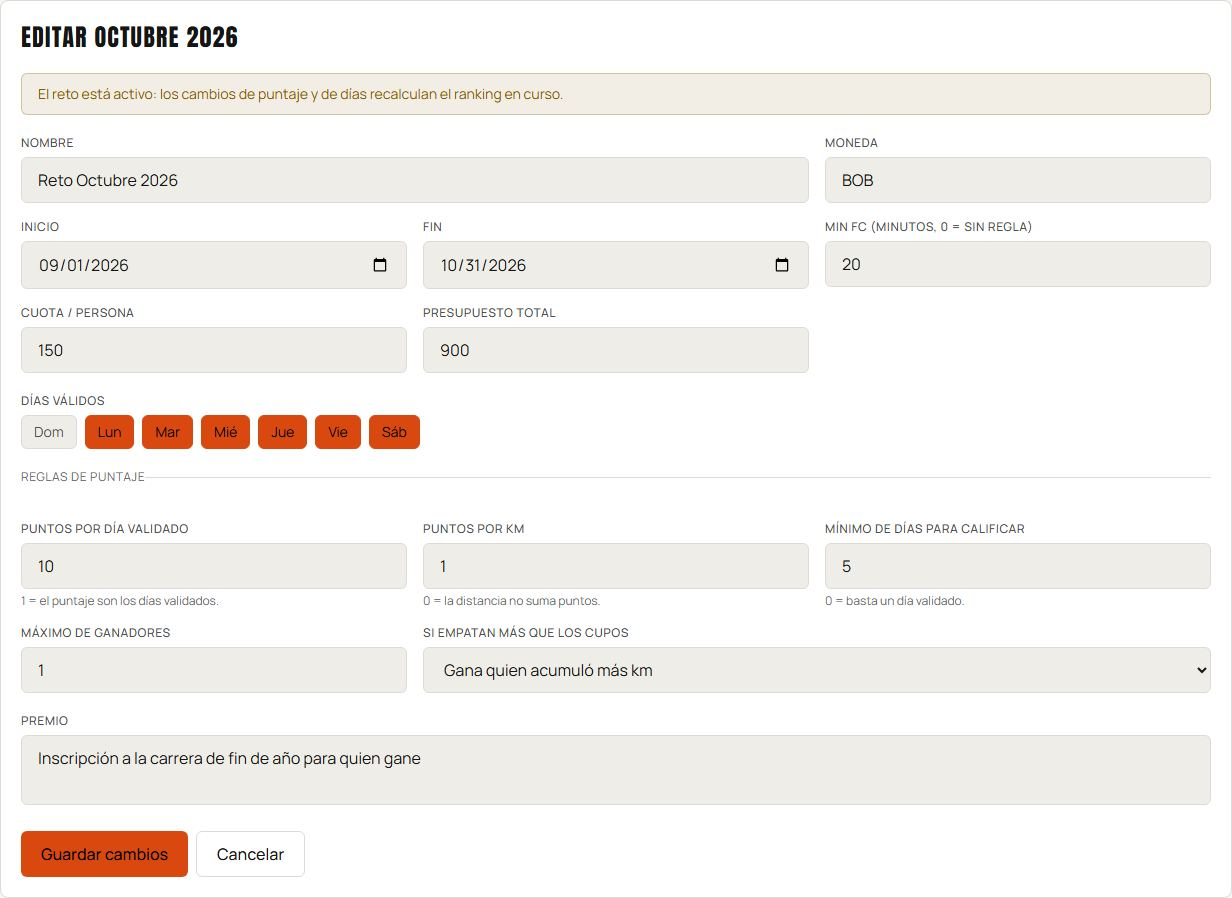
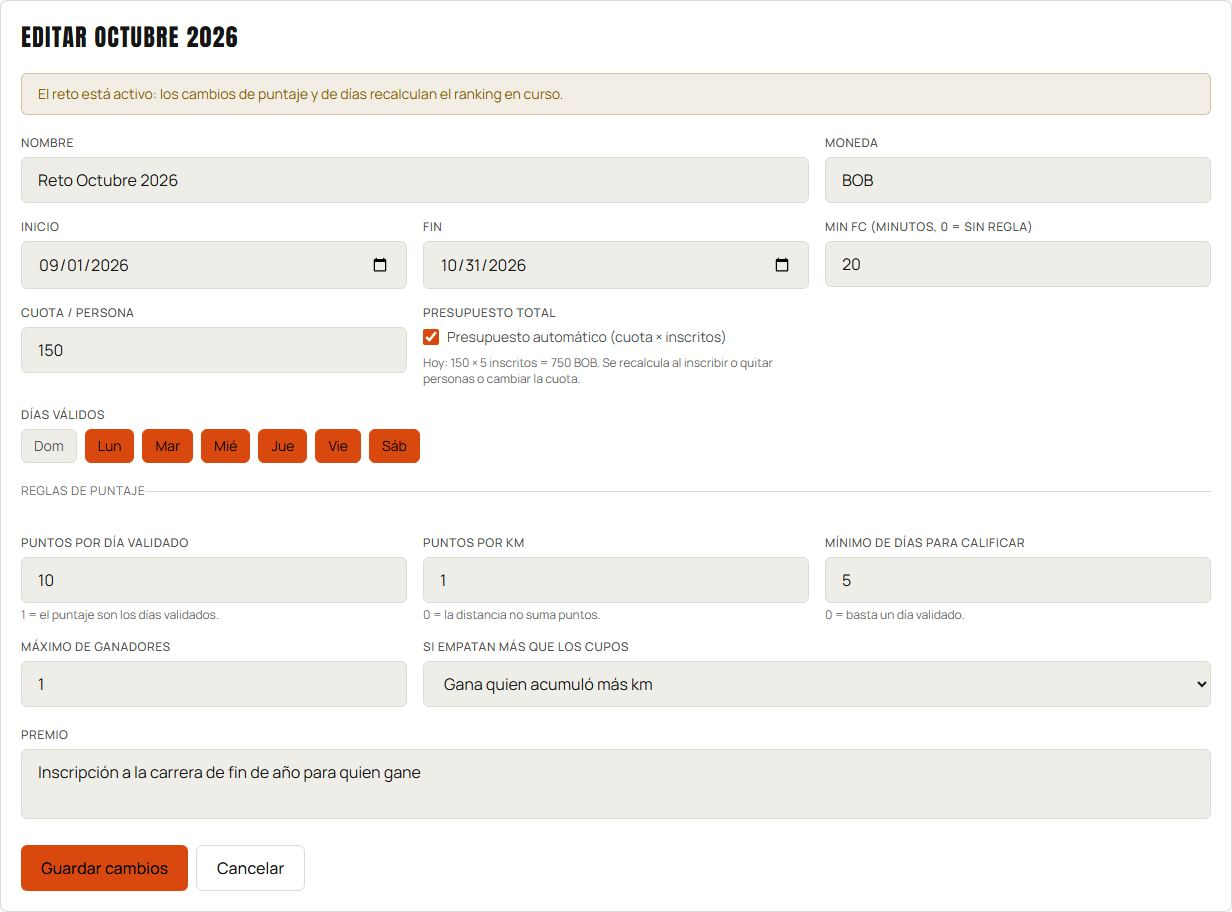
docs: record the business decisions and update guide and runbook
challenge-rules.md records the four finance decisions (collected pot,
budget from the fees, no payments after closing, unpaid participants can
win). The guide's steps 2.1, 2.3, 3.3, 3.4, 6.1 and 6.3 and its captures
follow them, the capture suite uses an automatic budget and records the
closed demo's payments before awarding, and the runbook flags the first
migration since 1.0 (backup required; rolling back to 1.3.0 needs the
restore).

diff --git a/docs/guia-plataforma.html b/docs/guia-plataforma.html
@@ -265,13 +265,15 @@
     <p class="lede">Todo lo que hace la plataforma, en el orden en que ocurre durante un mes de reto: poner el sistema en marcha, configurar el reto, inscribir y cobrar, registrar y validar actividades, cerrar con ranking y premio, cargar historial y operar. Marca cada paso cuando lo completes; tu avance queda guardado en este navegador.</p>
     <div class="facts">
       <span><b>Para</b> administradores, participantes y quien opera el servidor</span>
-      <span class="verified">Verificado el 2 oct 2026: batería 11 de 11 · 102 de 102 casos aprobados con 353 pruebas</span>
+      <span class="verified">Verificado el 2 oct 2026: batería 11 de 11 · 104 de 104 casos aprobados con 368 pruebas</span>
       <span><b>Capturas</b> de la web real en modo claro, generadas por Playwright con datos de demostración</span>
       <span><b>Moneda de ejemplo</b> BOB · <b>zona</b> America/La_Paz</span>
     </div>
     <details class="news">
       <summary>Qué cambió en esta actualización</summary>
       <ul>
+        <li>El premio se reparte con lo recaudado y el presupuesto se calcula solo con las cuotas (cuota × inscritos), con ajuste manual opcional (pasos 2.1, 3.4 y 6.1).</li>
+        <li>Un reto cerrado ya no acepta pagos: el pago tardío va al reto siguiente (3.3 y 6.3).</li>
         <li>Desde la web ya se puede editar un reto (2.3), registrar un pago parcial (3.3) y retirar una actividad pendiente (4.5): nada de eso requiere la API.</li>
         <li>Un reto cerrado es definitivo: no se edita ni vuelve a borrador (6.3).</li>
         <li>El encabezado entra completo también en el celular: el nombre del reto ya no se corta y las secciones van en una fila propia que se desplaza.</li>
@@ -404,7 +406,7 @@
             'Pulsa <span class="ui">+ Nuevo reto</span>.',
             'Completa nombre, moneda, mes y año. El período va del primer al último día del mes.',
             'Fija <span class="ui">Min FC (minutos)</span>: los minutos de registro de frecuencia cardíaca exigidos por actividad. Con 0 la regla no aplica.',
-            'Indica la cuota por persona, el presupuesto total del premio y la descripción del premio.',
+            'Indica la cuota por persona y la descripción del premio. El presupuesto queda en <span class="ui">Presupuesto automático (cuota × inscritos)</span>; desmárcalo solo si quieres fijar otro monto, por ejemplo con un aporte extra.',
             'Marca los <span class="ui">Días válidos</span> (por defecto de lunes a sábado).',
             'Revisa el bloque <span class="ui">Reglas de puntaje</span>: puntos por día validado, puntos por km, mínimo de días para calificar, máximo de ganadores y qué hacer si empatan más que los cupos.',
             'Pulsa <span class="ui">Crear reto</span>.'
@@ -425,8 +427,8 @@
           why: 'Para corregir fechas, días válidos, cuota, premio o puntaje después de crear el reto.',
           actions: ['En <span class="ui">Retos</span>, pulsa <span class="ui">Editar</span> en un reto en borrador o activo.', 'El formulario viene con los valores actuales; el mes y el año quedan fijos. Cambia lo necesario y pulsa <span class="ui">Guardar cambios</span>.'],
           expect: 'El reto guarda solo lo que cambiaste y el ranking se recalcula al instante. Si el fin queda antes del inicio, el formulario muestra el error y no cambia nada.',
-          note: 'Un reto cerrado no se edita: su resultado es definitivo. Si el reto está activo, el formulario avisa que los cambios de puntaje y de días recalculan el ranking en curso.',
-          refs: ['TC-CHAL-05', 'TC-CHAL-13']
+          note: 'Un reto cerrado no se edita: su resultado es definitivo. Si el reto está activo, el formulario avisa que los cambios de puntaje y de días recalculan el ranking en curso. Para volver a calcular el presupuesto con las cuotas, marca otra vez <span class="ui">Presupuesto automático</span>.',
+          refs: ['TC-CHAL-05', 'TC-CHAL-13', 'TC-FIN-06']
         },
         {
           id: '2.4', role: 'participante', title: 'Trabajar con varios retos activos a la vez', route: '/dashboard',
@@ -461,15 +463,15 @@
           why: 'El sistema concilia la cuota con lo cobrado.',
           actions: ['Pulsa <span class="ui">Marcar pagado</span>: aparece <span class="ui">Monto recibido</span> con la cuota completa.', 'Si pagó una parte, escribe el monto; luego pulsa <span class="ui">Guardar pago</span>.', 'Pulsa <span class="ui">Marcar impago</span> para revertirlo; se borran el monto y la fecha.'],
           expect: 'Con la cuota completa el chip pasa a "Pagado"; con menos, a "Parcial" con lo que falta, y el resumen financiero se actualiza al instante. Un monto en cero no se guarda.',
-          note: 'Solo cuenta como recaudado lo que el administrador registra; un comprobante subido no suma por sí solo.',
-          refs: ['TC-PART-04', 'TC-FIN-01']
+          note: 'Solo cuenta como recaudado lo que el administrador registra; un comprobante subido no suma por sí solo. Con el reto cerrado ya no se registran pagos: un pago tardío va al reto siguiente.',
+          refs: ['TC-PART-04', 'TC-FIN-01', 'TC-FIN-07']
         },
         {
           id: '3.4', role: 'admin', title: 'Leer el resumen financiero', route: '/dashboard/admin/participants',
-          why: 'Saber de un vistazo si el presupuesto del premio está cubierto.',
+          why: 'Saber de un vistazo cuánto se cobró frente a la meta del reto.',
           actions: ['Revisa las cuatro tarjetas: <span class="ui">Esperado</span> (cuota por inscritos), <span class="ui">Recaudado</span>, <span class="ui">Pendiente</span> y <span class="ui">Presupuesto</span>.'],
-          expect: 'Las tarjetas se actualizan al marcar o desmarcar un pago. Presupuesto dice "Cubierto" o cuánto falta.',
-          note: 'Solo cuenta como recaudado lo que el administrador marcó como pagado; un comprobante subido no suma por sí solo.',
+          expect: 'Las tarjetas se actualizan al marcar o desmarcar un pago. Presupuesto dice "Cubierto" o cuánto falta, y si es automático (cuota × inscritos, se recalcula solo) o ajustado a mano.',
+          note: 'Solo cuenta como recaudado lo que el administrador marcó como pagado; un comprobante subido no suma por sí solo. Lo recaudado es lo que se reparte como premio; el presupuesto es la meta.',
           refs: ['TC-FIN-02', 'TC-FIN-03', 'TC-FIN-05']
         }
       ]
@@ -560,7 +562,8 @@
           id: '6.1', role: 'participante', title: 'Leer el ranking', route: '/dashboard/results',
           why: 'Es el marcador del reto, visible para todos.',
           actions: ['Revisa los días válidos del período y el tope actual, en días o en puntos según las reglas del reto.', 'Si el reto tiene reglas propias, una línea explica el puntaje y aparece la columna <span class="ui">Puntos</span>.', 'Quien no llega al mínimo de días aparece marcado "no califica".'],
-          expect: 'Se ordena por puntaje y, a igual puntaje, por kilómetros. Debajo del título se ve el premio por ganador, marcado "proyectado" mientras el reto sigue activo.',
+          expect: 'Se ordena por puntaje y, a igual puntaje, por kilómetros. Debajo del título se ve el premio por ganador: se reparte lo recaudado (no el presupuesto), marcado "proyectado" mientras el reto sigue activo. Si aún no hay pagos, lo dice.',
+          note: 'Quien no pagó la cuota puede ganar igual: el pago no cambia el ranking ni los ganadores.',
           refs: ['TC-RES-01', 'TC-SCORE-01', 'TC-SCORE-02', 'TC-SCORE-05', 'TC-SCORE-07', 'TC-FIN-04', 'TC-SCORE-06']
         },
         {
@@ -575,8 +578,8 @@
           why: 'Al cerrar, el ranking pasa a ser definitivo.',
           actions: ['Pulsa <span class="ui">Cerrar reto</span> y confirma.'],
           expect: 'El reto pasa a Cerrado, deja de admitir actividades, inscripciones y bajas, y el resultado queda calculado con sus ganadores. No se puede volver a activar.',
-          note: 'Un reto cerrado es definitivo: no se puede editar ni volver a borrador, pero sí registrar su premiación (paso 6.4). Cualquiera puede consultar su resultado final en el Ranking (paso 6.5).',
-          refs: ['TC-CHAL-11', 'TC-CHAL-13', 'TC-PART-06']
+          note: 'Un reto cerrado es definitivo: no se puede editar, volver a borrador ni registrar pagos (el premio queda fijo), pero sí registrar su premiación (paso 6.4). Cualquiera puede consultar su resultado final en el Ranking (paso 6.5).',
+          refs: ['TC-CHAL-11', 'TC-CHAL-13', 'TC-PART-06', 'TC-FIN-07']
         },
         {
           id: '6.4', role: 'admin', title: 'Registrar la premiación', route: '/dashboard/results',
@@ -646,7 +649,7 @@
         {
           id: '8.2', role: 'tecnico', title: 'Correr la batería completa',
           why: 'Antes de cada release, un solo comando valida toda la plataforma.',
-          cmd: 'node scripts/run-tests.mjs              # 11 pasos\nnode scripts/run-tests.mjs --quick      # sin base de datos\nnode scripts/validate-test-cases.mjs    # valida los 102 casos del catálogo',
+          cmd: 'node scripts/run-tests.mjs              # 11 pasos\nnode scripts/run-tests.mjs --quick      # sin base de datos\nnode scripts/validate-test-cases.mjs    # valida los 104 casos del catálogo',
           expect: 'Lint, unitarias, build, migraciones, e2e de API, tipos, unitarias y build de la web, sesiones paralelas y recorridos de UI en verde. El validador cruza cada caso de <code>docs/qa/</code> con sus pruebas y regenera el catálogo y el reporte. Solo necesita Postgres.',
           refs: ['testing.md', 'qa/validation-report.md']
         },
@@ -654,7 +657,7 @@
           id: '8.3', role: 'tecnico', title: 'Ver los recorridos de UI en el navegador',
           why: 'Playwright reproduce los recorridos de este manual sobre la web real.',
           cmd: 'cd e2e && npm install && npx playwright install chromium\nnpm test          # sin ventana\nnpm run test:ui   # paso a paso\nnpx playwright test -c playwright.guide.config.ts   # regenera las capturas de este manual',
-          expect: '43 recorridos en verde (más la preparación de sesiones). La suite de capturas deja las imágenes en <code>docs/guia-capturas/</code>.',
+          expect: '44 recorridos en verde (más la preparación de sesiones). La suite de capturas deja las imágenes en <code>docs/guia-capturas/</code>.',
           refs: ['e2e-playwright.md']
         },
         {
@@ -669,7 +672,7 @@
           id: '8.5', role: 'tecnico', title: 'Validar el catálogo de casos de prueba',
           why: 'Cada caso del catálogo está enlazado a las pruebas que lo demuestran; el validador dice cuáles pasan hoy.',
           cmd: 'cd backend && npx prisma migrate reset --force   # datos limpios del seed\ncd .. && node scripts/validate-test-cases.mjs\nnode scripts/validate-test-cases.mjs --only=ui        # una sola suite\nnode scripts/validate-test-cases.mjs --reuse          # regenera los documentos sin volver a correr',
-          expect: 'Los 102 casos aprobados y ninguna prueba sin caso. Se regeneran <code>docs/qa/test-cases.md</code>, <code>test-cases.csv</code> y <code>validation-report.md</code>; el comando falla si un caso falla o si una prueba cambió de nombre.',
+          expect: 'Los 104 casos aprobados y ninguna prueba sin caso. Se regeneran <code>docs/qa/test-cases.md</code>, <code>test-cases.csv</code> y <code>validation-report.md</code>; el comando falla si un caso falla o si una prueba cambió de nombre.',
           note: 'Uno de los casos (TC-SEC-04, el seed en producción) es una verificación manual registrada; los demás se validan con pruebas automatizadas.',
           refs: ['qa/validation-report.md', 'qa/catalog.mjs']
         },
@@ -700,6 +703,7 @@
     ['Inscribir y quitar participantes', '3.1', 'auto'],
     ['Marcar pago, impago y pago parcial con el monto recibido', '3.3', 'auto'],
     ['Resumen financiero y cobertura del presupuesto', '3.4', 'auto'],
+    ['Presupuesto automático (cuota × inscritos) o ajustado a mano', '2.1', 'auto'],
     ['Panel personal con cuenta regresiva y posición', '4.1', 'auto'],
     ['Comprobante de pago del participante', '4.2', 'auto'],
     ['Registro de actividad con fotos', '4.3', 'auto'],
@@ -713,10 +717,10 @@
     ['Rechazar con motivo', '5.3', 'auto'],
     ['Ranking por puntaje, calificación y columna de puntos', '6.1', 'auto'],
     ['Tope del ranking en la unidad del reto (puntos o días)', '6.1', 'auto'],
-    ['Premio por ganador proyectado y final', '6.1', 'auto'],
+    ['Premio por ganador repartido con lo recaudado', '6.1', 'auto'],
     ['Empates y reglas de desempate', '6.2', 'auto'],
     ['Cerrar reto', '6.3', 'auto'],
-    ['Reto cerrado definitivo (sin edición ni reapertura)', '6.3', 'auto'],
+    ['Reto cerrado definitivo (sin edición, reapertura ni pagos)', '6.3', 'auto'],
     ['Ranking de retos cerrados, con dirección para compartir', '6.5', 'auto'],
     ['Premiación manual que prevalece', '6.4', 'auto'],
     ['Premiación con ganadores sugeridos por las reglas', '6.4', 'auto'],

diff --git a/e2e/guide/capture.spec.ts b/e2e/guide/capture.spec.ts
@@ -10,7 +10,7 @@ import { pngFile } from '../fixtures/ui';
  * Capturas de la guía de uso y evidencia visual de los casos de UI del catálogo.
  *
  * Datos de demostración: "Reto Octubre 2026" (período 1 sep – 31 oct 2026, lunes a sábado,
- * 20 min de FC, cuota 150 BOB, presupuesto 900 BOB, 10 puntos por día + 1 por km, mínimo 5
+ * 20 min de FC, cuota 150 BOB, presupuesto automático (5 × 150), 10 puntos por día + 1 por km, mínimo 5
  * días, 1 ganador, desempate por km) con los cinco participantes del seed. Convive con el
  * reto de mayo del seed, así que el selector de reto aparece.
  */
@@ -88,7 +88,7 @@ test.beforeAll(async () => {
     validDays: [1, 2, 3, 4, 5, 6],
     minHeartRateMinutes: 20,
     feePerParticipant: 150,
-    budgetTotal: 900,
+    budgetTotal: null,
     currency: 'BOB',
     prizeDescription: 'Inscripción a la carrera de fin de año para quien gane',
     pointsPerValidatedDay: 10,
@@ -247,7 +247,8 @@ test.describe('Participante', () => {
     await expect(page.getByLabel('Regla de puntaje')).toContainText('10 por día validado');
     await expect(page.locator('table thead')).toContainText('PUNTOS', { ignoreCase: true });
     await expect(page.locator('table')).toContainText('no califica');
-    await expect(page.getByLabel('Premio por ganador')).toContainText('900 BOB');
+    // El pote es lo recaudado (150 + 150 + 75), no el presupuesto
+    await expect(page.getByLabel('Premio por ganador')).toContainText('375 BOB por ganador');
     await expect(page.locator('main')).toContainText('top actual: 96 puntos');
     await shot(page, '16-ranking.jpg');
   });
@@ -283,7 +284,7 @@ async function closedDemoChallenge(): Promise<string> {
       body: {
         name: CLOSED_NAME, month: 8, year: YEAR,
         startDate: `${YEAR}-08-01T00:00:00.000Z`, endDate: `${YEAR}-08-31T23:59:59.000Z`,
-        validDays: [1, 2, 3, 4, 5, 6], minHeartRateMinutes: 20, feePerParticipant: 150, budgetTotal: 600,
+        validDays: [1, 2, 3, 4, 5, 6], minHeartRateMinutes: 20, feePerParticipant: 150,
         currency: 'BOB', prizeDescription: 'Zapatillas de running para quien gane',
       },
     });
@@ -306,6 +307,10 @@ async function closedDemoChallenge(): Promise<string> {
   const participants = await api<{ userId: string; user: { email: string } }[]>('GET', `/challenges/${id}/participants`, { token: admin });
   const carla = participants.body.find((p) => p.user.email === 'carla@reto.local');
   if (!carla) throw new Error('Carla no quedó inscrita en el reto cerrado');
+  // Los tres pagaron su cuota antes del cierre: el pote del premio es 450
+  for (const p of participants.body) {
+    await api('PATCH', `/challenges/${id}/participants/${p.userId}/payment`, { token: admin, body: { paid: true } });
+  }
   await api('POST', `/challenges/${id}/awards`, {
     token: admin,
     body: { userIds: [carla.userId], notes: 'Zapatillas entregadas en la reunión de septiembre' },

diff --git a/openspec/changes/pot-from-collected/tasks.md b/openspec/changes/pot-from-collected/tasks.md
@@ -1,17 +1,17 @@
 ## 1. Data and backend
 
-- [ ] 1.1 Prisma migration: `Challenge.budgetTotal` nullable without default, with the data rule (0 or equal to fee × participants → NULL); verify `prisma migrate dev` applies on a seeded database and the seed's May challenge ends up automatic
-- [ ] 1.2 Effective-budget helper (`budgetTotal ?? fee × participants`) used by the finance summary, which also returns `budgetMode`; DTOs accept an optional budget on create and `null` on update; verify with `finance.service.spec.ts` and `challenges.service.spec.ts` (automatic follows enrollment and fee, manual stays, back to automatic)
-- [ ] 1.3 Collected-total function shared by the finance summary and `computePayout(collected, winnersCount, fee)` with `monetary = fee > 0`; `ResultsService` uses it; verify with finance and results unit tests (collected pot, nothing collected on a paid challenge, free challenge, budget ignored, unpaid top scorer still wins)
-- [ ] 1.4 Reject payment changes and payment-proof uploads on `COMPLETED` challenges; verify with unit tests and `platform-rules.e2e-spec.ts` cases (mark paid, mark unpaid and upload proof after closing → 400, pot unchanged)
-- [ ] 1.5 Update the API e2e expectations (`challenge-finance.e2e-spec.ts`, `challenge-scoring.e2e-spec.ts`, `platform-rules.e2e-spec.ts`) and the parallel-session finance checks; verify `npm run test:e2e` and the session script pass
+- [x] 1.1 Prisma migration: `Challenge.budgetTotal` nullable without default, with the data rule (0 or equal to fee × participants → NULL); verify `prisma migrate dev` applies on a seeded database and the seed's May challenge ends up automatic
+- [x] 1.2 Effective-budget helper (`budgetTotal ?? fee × participants`) used by the finance summary, which also returns `budgetMode`; DTOs accept an optional budget on create and `null` on update; verify with `finance.service.spec.ts` and `challenges.service.spec.ts` (automatic follows enrollment and fee, manual stays, back to automatic)
+- [x] 1.3 Collected-total function shared by the finance summary and `computePayout(collected, winnersCount, fee)` with `monetary = fee > 0`; `ResultsService` uses it; verify with finance and results unit tests (collected pot, nothing collected on a paid challenge, free challenge, budget ignored, unpaid top scorer still wins)
+- [x] 1.4 Reject payment changes and payment-proof uploads on `COMPLETED` challenges; verify with unit tests and `platform-rules.e2e-spec.ts` cases (mark paid, mark unpaid and upload proof after closing → 400, pot unchanged)
+- [x] 1.5 Update the API e2e expectations (`challenge-finance.e2e-spec.ts`, `challenge-scoring.e2e-spec.ts`, `platform-rules.e2e-spec.ts`) and the parallel-session finance checks; verify `npm run test:e2e` and the session script pass
 
 ## 2. Web
 
-- [ ] 2.1 Challenge form: "Presupuesto automático (cuota × inscritos)" checked by default, manual amount when unchecked, re-checking in edit sends `null`; verify with Playwright (manual 800, then back to automatic)
-- [ ] 2.2 Finance card shows the effective budget with "automático" or "ajustado"; ranking prize line shows the collected pot (projected while active), "aún no hay pagos registrados" for a paid challenge with nothing collected, "premio no monetario" only for free challenges; verify with the Playwright finance journey
+- [x] 2.1 Challenge form: "Presupuesto automático (cuota × inscritos)" checked by default, manual amount when unchecked, re-checking in edit sends `null`; verify with Playwright (manual 800, then back to automatic)
+- [x] 2.2 Finance card shows the effective budget with "automático" or "ajustado"; ranking prize line shows the collected pot (projected while active), "aún no hay pagos registrados" for a paid challenge with nothing collected, "premio no monetario" only for free challenges; verify with the Playwright finance journey
 
 ## 3. QA and documentation
 
-- [ ] 3.1 Update the QA catalog (TC-FIN-02, TC-FIN-04, TC-FIN-05, TC-RES-04 and new cases for the automatic budget and for payments closing with the challenge) and record the four business decisions in `docs/challenge-rules.md`; verify `node scripts/validate-test-cases.mjs` approves every case with no orphan tests
-- [ ] 3.2 Regenerate the guide captures; update guide steps 2.1, 2.3, 3.3, 3.4, 6.1 and 6.3, the runbook (first migration since 1.0: backup), CHANGELOG and `docs/testing.md`; republish guide and runbook; run `node scripts/run-tests.mjs` and verify all steps pass
+- [x] 3.1 Update the QA catalog (TC-FIN-02, TC-FIN-04, TC-FIN-05, TC-RES-04 and new cases for the automatic budget and for payments closing with the challenge) and record the four business decisions in `docs/challenge-rules.md`; verify `node scripts/validate-test-cases.mjs` approves every case with no orphan tests
+- [x] 3.2 Regenerate the guide captures; update guide steps 2.1, 2.3, 3.3, 3.4, 6.1 and 6.3, the runbook (first migration since 1.0: backup), CHANGELOG and `docs/testing.md`; republish guide and runbook; run `node scripts/run-tests.mjs` and verify all steps pass

diff --git a/docs/challenge-rules.md b/docs/challenge-rules.md
@@ -119,7 +119,7 @@ describen la regla aplicada.
 > resultados se computan en cada lectura, no se congelan al cerrar el reto.
 
 **Fuera de alcance (requerirían su propio cambio):** bonus por rachas, pesos por
-tipo de ejercicio, cuotas semanales, elegibilidad por pago.
+tipo de ejercicio, cuotas semanales (la elegibilidad por pago se descartó: ver decisión 4).
 
 **Gap #4 — Cuota/presupuesto conciliados con los pagos. RESUELTO** (cambio
 OpenSpec `budget-payout-reconciliation`, spec `challenge-finance`).
@@ -129,16 +129,27 @@ OpenSpec `budget-payout-reconciliation`, spec `challenge-finance`).
   Con cuota 0 todos cuentan como pagados.
 - **Resumen financiero** (`GET /challenges/:id/finance`, solo admin): esperado
   (cuota × inscritos), recaudado (suma de montos confirmados por el admin),
-  pendiente, cobertura del presupuesto (`budgetCovered`, `budgetDelta`) y la lista
+  pendiente, presupuesto efectivo con su modo (`budgetMode`: automático o
+  ajustado), cobertura del presupuesto (`budgetCovered`, `budgetDelta`) y la lista
   con el estado de cada participante. La página de participantes lo muestra en
   tarjetas.
-- **Payout** en `GET /challenges/:id/results`: el pote es el `budgetTotal` del reto
-  y se reparte entre los premiados manuales si existen, si no entre los ganadores
-  calculados (redondeo hacia abajo a 2 decimales). Presupuesto 0 = premio no
-  monetario. No altera el ranking ni los ganadores.
 - Marcar pagado sin monto registra la cuota; marcar impago limpia monto y fecha.
-- **Pendiente de negocio (no implementado):** excluir morosos del premio o usar
-  lo recaudado como pote. Ambas cosas requieren una decisión explícita.
+
+**Decisiones de negocio (2026-10-03, cambio OpenSpec `pot-from-collected`):**
+
+1. **El premio se reparte con lo recaudado.** El pote de `GET /challenges/:id/results`
+   es la suma de los pagos confirmados, no el presupuesto. Se reparte entre los
+   premiados manuales si existen, si no entre los ganadores calculados (redondeo
+   hacia abajo a 2 decimales). El premio es monetario cuando el reto cobra cuota; un
+   reto con cuota y sin pagos tiene pote 0. Mientras el reto está activo el monto se
+   muestra como proyectado.
+2. **El presupuesto sale de las cuotas.** Por defecto es cuota × inscritos y se
+   recalcula al inscribir o quitar personas o cambiar la cuota. El admin puede fijar
+   otro monto (por ejemplo, un aporte extra) y volver a automático. Es una meta: no
+   define el premio.
+3. **Un reto cerrado no acepta pagos ni comprobantes.** Un pago tardío se registra en
+   el reto siguiente. Así lo recaudado, y el premio, de un reto cerrado queda fijo.
+4. **Quien no pagó puede ganar.** El pago no afecta el ranking ni los ganadores.
 
 ## 4. Plantilla para comparar reglas de dos meses
 

diff --git a/docs/testing.md b/docs/testing.md
@@ -111,8 +111,8 @@ Las ramas `main` y `develop` están protegidas: sin CI en verde no se puede merg
 | Reglas de negocio del backend | Cubiertas por unitarias y e2e |
 | Contratos HTTP y RBAC | Cubiertos por e2e |
 | Recorrido funcional completo | Cubierto por `parallel-session-test.mjs` |
-| Interfaz web | Cubierta por Playwright (`e2e/`): 43 recorridos (incluidos el modo claro/oscuro, los retos cerrados, el encabezado en escritorio y móvil, y editar retos, retirar actividades y pagos parciales) y 18 pruebas de la suite de capturas, sobre navegador real |
-| Trazabilidad | Los 102 casos de `docs/qa/` están enlazados a 353 pruebas; ninguna prueba queda sin caso |
+| Interfaz web | Cubierta por Playwright (`e2e/`): 44 recorridos (incluidos el modo claro/oscuro, los retos cerrados, el encabezado en escritorio y móvil, editar retos, retirar actividades, pagos parciales y el presupuesto automático) y 18 pruebas de la suite de capturas, sobre navegador real |
+| Trazabilidad | Los 104 casos de `docs/qa/` están enlazados a 368 pruebas; ninguna prueba queda sin caso |
 | Componentes del frontend aislados | **Sin pruebas unitarias**: la UI se verifica de punta a punta, no por componente |
 | Subida de archivos | Cubierta de punta a punta contra el simulador local; **la subida real a Cloudinary** requiere credenciales y se verifica manualmente |
 | Lectura real de Google Sheets | **Sin cobertura automatizada**: e2e usa un cliente falso; el camino real requiere una cuenta de servicio |
@@ -124,6 +124,16 @@ Testing Library, y el corredor ya tiene dónde enchufarlas.
 
 Cada release se valida corriendo la batería completa en local antes de desplegar. Se anota
 aquí la versión, la fecha, el entorno y el resultado por suite.
+
+### 2026-10-03 · rama `feature/pot-from-collected` (pote recaudado y presupuesto automático)
+
+Base reiniciada con `npx prisma migrate reset --force` (incluye la migración nueva del
+presupuesto). **Batería:** 11 de 11 pasos en verde. **Catálogo:** 104 de 104 casos aprobados con
+368 pruebas y 0 fallidas: unitarias del backend 139, unitarias de la web 12, e2e de API 87,
+recorridos de UI 44 (más la preparación), capturas de la guía 18 (más la preparación) y sesiones
+paralelas 66. Casos nuevos: TC-FIN-06 (presupuesto automático o ajustado) y TC-FIN-07 (los pagos
+se cierran con el reto). La migración se probó sobre una base con datos: los presupuestos en 0 o
+iguales a cuota × inscritos pasaron a automático y el resto se conservó como manual.
 
 ### 2026-10-02 · v1.3.0 (rama `release/1.3.0`)
 

diff --git a/docs/runbook-despliegue.md b/docs/runbook-despliegue.md
@@ -184,7 +184,10 @@ actividad, validar) y no se corrige en minutos.
 4. Avisa al administrador del reto y registra el incidente (§8).
 
 Las versiones 1.0.0 → 1.3.0 no tienen migraciones nuevas entre sí, así que revertir entre
-ellas es solo volver a desplegar el código.
+ellas es solo volver a desplegar el código. **La versión siguiente a la 1.3.0 trae una migración**
+(presupuesto automático: `budgetTotal` pasa a ser opcional): toma el respaldo de §5.1 antes de
+desplegarla. Para volver a la 1.3.0 hay que restaurar ese respaldo, porque la 1.3.0 no entiende
+un presupuesto vacío.
 
 ---
 
@@ -224,6 +227,7 @@ pg_restore --clean --if-exists --no-owner --dbname "$DATABASE_URL" reto-AAAAMMDD
 | Muchos usuarios reciben 429 a la vez | La API no ve la IP real: todos comparten el cupo | `TRUST_PROXY=1` (por defecto en producción); si hay dos proxies, `2` |
 | "Subir actividad" deshabilitado | Faltan variables `CLOUDINARY_*` | Cargarlas y redeploy |
 | Editar un reto responde "No se puede modificar un reto cerrado" | El reto ya está cerrado: su resultado es definitivo | Esperado desde 1.3: no se edita ni se reabre; la premiación sí se puede registrar |
+| Registrar un pago responde "No se puede modificar un reto cerrado" | El reto ya está cerrado: no acepta pagos ni comprobantes | Esperado: el pago tardío se registra en el reto siguiente |
 | Login responde 429 | 5 intentos por minuto por IP (protección anti fuerza bruta) | Esperar un minuto |
 | La sesión se cierra sola | Refresh token rechazado (secretos JWT rotados) | Esperado tras rotar secretos: volver a iniciar sesión |
 | Importar desde Google Sheets dice "no configurado" | Faltan `GOOGLE_*` | Opcional: ver `docs/import-template.md` |

diff --git a/docs/test-cases.md b/docs/test-cases.md
@@ -9,7 +9,7 @@ automatizada, los recorridos manuales paso a paso, y el catálogo completo de ca
   antes de un despliegue o al validar un cambio grande. Seis de ellos están automatizados
   con Playwright (`cd e2e && npm test`, ver [`e2e-playwright.md`](./e2e-playwright.md));
   la versión manual sigue sirviendo para revisar la app desplegada.
-- **Parte 3 — Catálogo de casos**: vive en [`qa/test-cases.md`](./qa/test-cases.md): 102 casos
+- **Parte 3 — Catálogo de casos**: vive en [`qa/test-cases.md`](./qa/test-cases.md): 104 casos
   con precondiciones, datos, pasos, resultado esperado y las pruebas que validan cada uno,
   con su estado en la última validación.
 
@@ -103,7 +103,7 @@ recorrido de sesiones paralelas y los recorridos de UI con Playwright. Solo nece
 de datos: si la API no está arriba, el corredor la levanta. Variantes y detalle de cada
 suite: [`testing.md`](./testing.md) y [`e2e-playwright.md`](./e2e-playwright.md).
 
-**Qué casos están automatizados:** 101 de los 102 casos del catálogo se validan con pruebas
+**Qué casos están automatizados:** 103 de los 104 casos del catálogo se validan con pruebas
 automatizadas; el otro es una verificación manual registrada (TC-SEC-04). Para correr las
 suites y ver el estado de cada caso:
 

diff --git a/CHANGELOG.md b/CHANGELOG.md
@@ -5,6 +5,21 @@ Versionado [SemVer](https://semver.org/lang/es/).
 
 ## [Sin publicar]
 
+### Cambiado
+
+- **El premio se reparte con lo recaudado** (spec `challenge-finance`, cambio `pot-from-collected`):
+  el pote de los resultados es la suma de los pagos confirmados, no el presupuesto. El premio es
+  monetario cuando el reto cobra cuota; un reto con cuota y sin pagos muestra "aún no hay pagos
+  registrados". Quien no pagó puede ganar igual.
+- **Presupuesto automático:** por defecto es cuota × inscritos y se recalcula al inscribir o quitar
+  personas o cambiar la cuota; el admin puede fijar otro monto y volver a automático. El resumen
+  financiero informa `budgetMode` (`auto` o `manual`).
+- **Un reto cerrado no acepta pagos ni comprobantes** (400): el pago tardío se registra en el reto
+  siguiente, y el premio de un reto cerrado queda fijo.
+- **Migración de base de datos** (la primera desde la 1.0.0): `Challenge.budgetTotal` pasa a ser
+  opcional. Los presupuestos en 0 o iguales a cuota × inscritos se vuelven automáticos; el resto se
+  conserva como monto fijado. Tomar respaldo antes de desplegar (ver el runbook).
+
 ### Corregido
 
 - El panel de premiación no actualizaba los ganadores sugeridos si cambiaban sin que cambiara

diff --git a/docs/e2e-playwright.md b/docs/e2e-playwright.md
@@ -86,7 +86,7 @@ a `.qa-results/shots`, para no reescribir las capturas versionadas.
 | `tests/01-auth-navigation.spec.ts` | 1 · Alta, sesión y rutas protegidas | TC-AUTH-02, TC-AUTH-10, TC-AUTH-13, TC-AUTH-14, TC-UI-01, TC-UI-02 |
 | `tests/02-activity-upload.spec.ts` | 3 · Registrar actividad con regla de FC | TC-ACT-01, 02, 05, 13, 14, 18, TC-UP-02, TC-UI-04 |
 | `tests/03-admin-validation.spec.ts` | 4 · Validar y rechazar como admin | TC-ACT-08, TC-ACT-15 |
-| `tests/04-finance.spec.ts` | 5 · Pagos y resumen financiero | TC-PART-04, TC-FIN-01, 02, 04, 05 |
+| `tests/04-finance.spec.ts` | 5 · Pagos y resumen financiero | TC-PART-04, TC-FIN-01, 02, 04, 05, 06 |
 | `tests/05-challenges-scoring.spec.ts` | 6 y 7 · Varios retos activos y reglas de puntaje | TC-CHAL-08, TC-CHAL-10, TC-SCORE-05 |
 | `tests/06-import.spec.ts` | 8 y 9 · Importación por archivo y Google Sheets | TC-IMP-01, 02, 03, 05, TC-ACT-16 |
 | `tests/07-theme.spec.ts` | Guía 1.4 · Modo claro y oscuro | TC-UI-06, TC-UI-07, TC-UI-08, TC-UI-09 |

diff --git a/README.md b/README.md
@@ -205,7 +205,7 @@ Pasos:
 - Gitflow y convención de commits: ver `docs/gitflow.md`.
 - Seguridad / OWASP: ver `docs/security-owasp.md`.
 - Casos de prueba (entorno y recorridos guiados): ver `docs/test-cases.md`.
-- Catálogo de casos validado (102 casos con sus pruebas) y último reporte: `docs/qa/test-cases.md`, `docs/qa/validation-report.md`; se regeneran con `node scripts/validate-test-cases.mjs`.
+- Catálogo de casos validado (104 casos con sus pruebas) y último reporte: `docs/qa/test-cases.md`, `docs/qa/validation-report.md`; se regeneran con `node scripts/validate-test-cases.mjs`.
 - Batería automatizada y cómo correrla (`node scripts/run-tests.mjs`): ver `docs/testing.md`.
 - Pruebas de UI con Playwright (configuración y ejecución): ver `docs/e2e-playwright.md`.
 - Guía interactiva de uso con todas las funciones en orden y capturas de pantalla (abrir en el navegador): `docs/guia-plataforma.html`.
